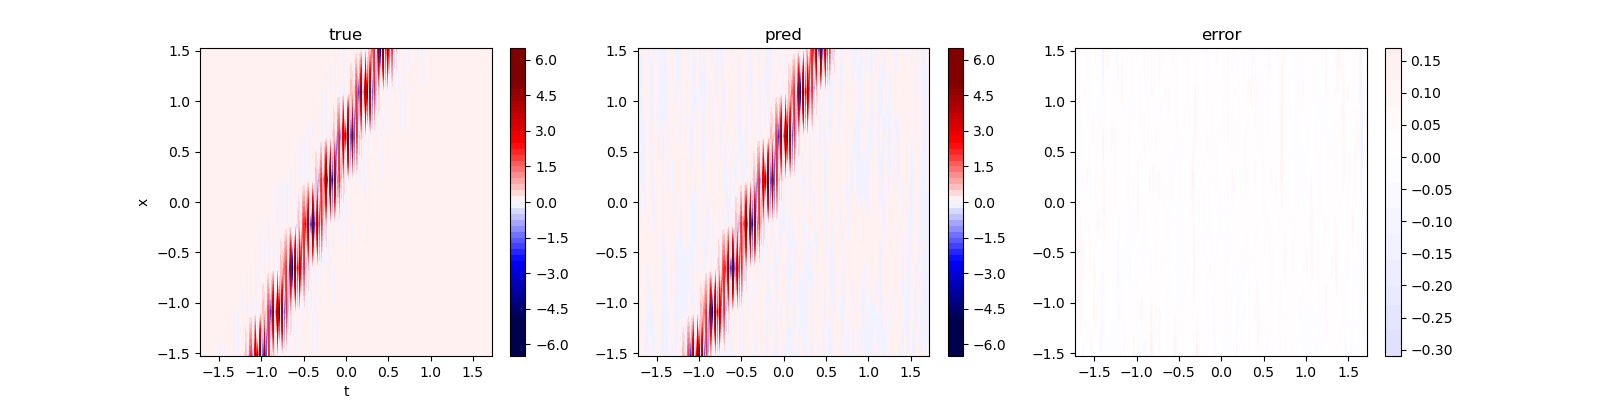
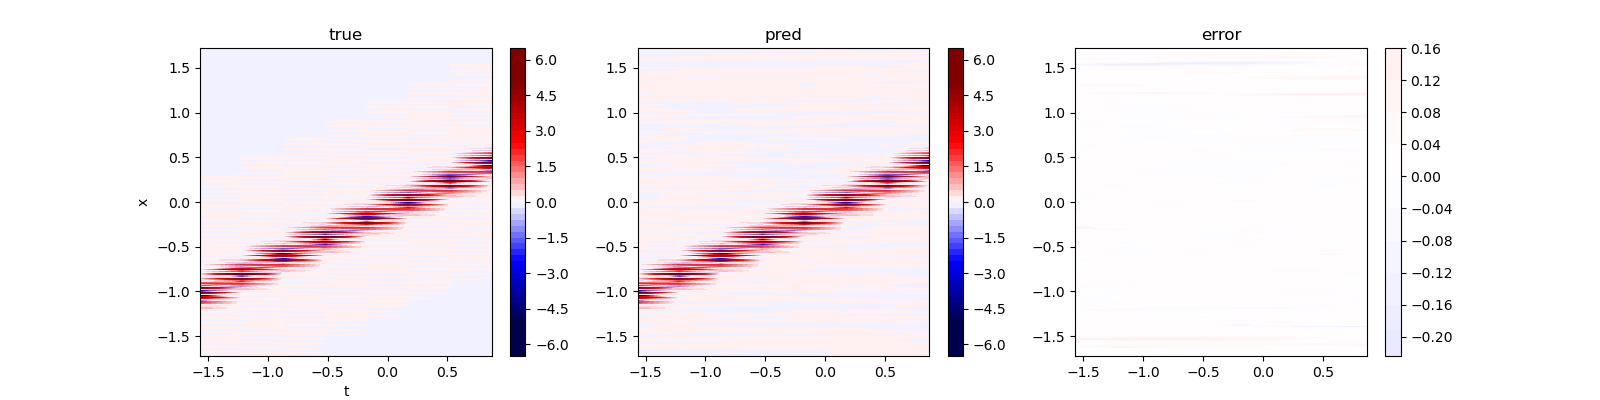
fix/scheduler/datasets norm/..

diff --git a/main.py b/main.py
@@ -21,7 +21,7 @@ from models.simple_nif import simple_NIF
 from utils.utils import count_params
 from utils.visual import visual_1dwave, visual_cylinder
 from utils.yaml import yaml2dict, dict2yaml
-from utils.scheduler import nif_scheduler5000, nif_scheduler600
+from utils.scheduler import nifll_scheduler600, nifms_scheduler5000, nifs_scheduler5000
 
 def main(path):
 
@@ -41,12 +41,12 @@ def main(path):
     # dtrain = Wave_1d(path, 0, 1600, normalize=cfg['data_cfg']['normalize'])
     # dtest = Wave_1d(path, 1600, 2000, normalize=cfg['data_cfg']['normalize'])
     # visual_func = visual_1dwave
-    # dtrain = Wave_1dhf(path, 0, 1600, normalize=cfg['data_cfg']['normalize'])
-    # dtest = Wave_1dhf(path, 1600, 2000, normalize=cfg['data_cfg']['normalize'])
-    # visual_func = visual_1dwave
-    dtrain = Cylinder(path, 0, 163666, normalize=cfg['data_cfg']['normalize'])
-    dtest = Cylinder(path, 163666, 191775, normalize=cfg['data_cfg']['normalize'])
-    visual_func = visual_cylinder
+    dtrain = Wave_1dhf(path, 0, 1600, normalize=cfg['data_cfg']['normalize'])
+    dtest = Wave_1dhf(path, 1600, 2000, normalize=cfg['data_cfg']['normalize'])
+    visual_func = visual_1dwave
+    # dtrain = Cylinder(path, 0, 163666, normalize=cfg['data_cfg']['normalize'])
+    # dtest = Cylinder(path, 163666, 191775, normalize=cfg['data_cfg']['normalize'])
+    # visual_func = visual_cylinder
     print(dtrain)
     cfg['training_cfg']['visual_func'] = visual_func
 
@@ -69,8 +69,9 @@ def main(path):
     cfg['training_cfg']['nb_params'] = count_params(model)
     print("model :", model)
     
+    dict2yaml(save_path + '/cfg.yaml', cfg)
     model.fit(dataloader_train, n_epochs=cfg['training_cfg']['nepoch'], lr=cfg['training_cfg']['lr_init'],
-              scheduler = nif_scheduler600, validation_data=dataloader_test, verbose=100,
+              scheduler = nifms_scheduler5000, validation_data=dataloader_test, verbose=100,
               save_images_freq=cfg['training_cfg']['print_figure_epoch'], vistrain=dtrain[:], vistest=dtest[:])
 
     cfg['training_time'] = time.time() - tic
@@ -82,7 +83,7 @@ def main(path):
     return True
 
 if __name__ == "__main__":
-    cfg_path = 'config/nif_1dwave.yaml'
+    # cfg_path = 'config/nif_1dwave.yaml'
     cfg_path = 'config/nifmultiscale_1dhfwave.yaml'
-    cfg_path = 'config/niflastlayer_cylinder.yaml'
+    # cfg_path = 'config/niflastlayer_cylinder.yaml'
     print(main(cfg_path))

diff --git a/datasets/wave_hf1d.py b/datasets/wave_hf1d.py
@@ -10,8 +10,8 @@ class Wave_1dhf(Dataset) : #héritage de classe Dataset de Pytorch
         super().__init__()
 
         data = np.load(path + '/traveling_wave_high_freq.npz')['data']
-        datax = data[start:end, [0, 1]] 
-        datay = data[start:end, [2]]
+        datax = data[:, [0, 1]] 
+        datay = data[:, [2]]
 
         self.datax = torch.tensor(datax).float()#.view(size) permet de modifier la shape et d'utiliser le même espace de stockage
         self.datay = torch.tensor(datay) #labels
@@ -20,11 +20,19 @@ class Wave_1dhf(Dataset) : #héritage de classe Dataset de Pytorch
         self.mode = 'train'*train + 'val'*(1-train)
 
         if normalize == 'standard':
-            self.datax, _, _ = std_normalize(self.datax)
-            self.datay, _, _ = std_normalize(self.datay)
+            self.datax, datax_means, datax_stds = std_normalize(self.datax)
+            self.datay, datay_means, datay_stds = std_normalize(self.datay)
+            self.datax = self.datax[start:end, :]
+            self.datay = self.datay[start:end, :]
+            self.means = torch.cat((datax_means, datay_means), dim=0)
+            self.stds = torch.cat((datax_stds, datay_stds), dim=0)
         elif normalize == 'minmax':
-            self.datax, _, _ = minimax_normalize(self.datax)
-            self.datay, _, _ = minimax_normalize(self.datay)
+            self.datax, datax_means, datax_stds  = minimax_normalize(self.datax)
+            self.datay, datay_means, datay_stds  = minimax_normalize(self.datay)
+            self.datax = self.datax[start:end, :]
+            self.datay = self.datay[start:end, :]
+            self.means = torch.cat((datax_means, datay_means), dim=0)
+            self.stds = torch.cat((datax_stds, datay_stds), dim=0)
         else :
             raise NotImplementedError('Normalization not implemented')
 

diff --git a/datasets/wave_1d.py b/datasets/wave_1d.py
@@ -10,8 +10,8 @@ class Wave_1d(Dataset) : #héritage de classe Dataset de Pytorch
         super().__init__()
 
         data = np.load(path + '/traveling_wave.npz')['data']
-        datax = data[start:end, [0, 1]] 
-        datay = data[start:end, [2]]
+        datax = data[:, [0, 1]] 
+        datay = data[:, [2]]
 
         self.datax = torch.tensor(datax).float()#.view(size) permet de modifier la shape et d'utiliser le même espace de stockage
         self.datay = torch.tensor(datay) #labels
@@ -20,11 +20,19 @@ class Wave_1d(Dataset) : #héritage de classe Dataset de Pytorch
         self.mode = 'train'*train + 'val'*(1-train)
 
         if normalize == 'standard':
-            self.datax, _, _ = std_normalize(self.datax)
-            self.datay, _, _ = std_normalize(self.datay)
+            self.datax, datax_means, datax_stds = std_normalize(self.datax)
+            self.datay, datay_means, datay_stds = std_normalize(self.datay)
+            self.datax = self.datax[start:end, :]
+            self.datay = self.datay[start:end, :]
+            self.means = torch.cat((datax_means, datay_means), dim=0)
+            self.stds = torch.cat((datax_stds, datay_stds), dim=0)
         elif normalize == 'minmax':
-            self.datax, _, _  = minimax_normalize(self.datax)
-            self.datay, _, _  = minimax_normalize(self.datay)
+            self.datax, datax_means, datax_stds  = minimax_normalize(self.datax)
+            self.datay, datay_means, datay_stds  = minimax_normalize(self.datay)
+            self.datax = self.datax[start:end, :]
+            self.datay = self.datay[start:end, :]
+            self.means = torch.cat((datax_means, datay_means), dim=0)
+            self.stds = torch.cat((datax_stds, datay_stds), dim=0)
         else :
             raise NotImplementedError('Normalization not implemented')
 

diff --git a/utils/visual.py b/utils/visual.py
@@ -4,16 +4,20 @@ import torch
 
 def visual_1dwave(model, datax, datay, path, mode):
     nsamples = datax.shape[0]
-    xx = datax[:, 0].reshape(int(nsamples/200), 200).to('cpu')
-    tt = datax[:, 1].reshape(int(nsamples/200), 200).to('cpu')
+    tt = datax[:, 0].reshape(int(nsamples/200), 200).to('cpu')
+    xx = datax[:, 1].reshape(int(nsamples/200), 200).to('cpu')
+    
     # xx, tt = np.meshgrid(x, t)
     # print("xx.shape :", xx.shape)
     # print("datax.shape :", datax.shape)
     # print("model(datax).shape :", model(datax).shape)
+    means = np.array([1.0821e-01, 1.4988e-02, 5.6368e-05])
+    stds = np.array([0.0029, 0.0139, 0.0093])
 
     u_pred = model(
-    datax).reshape(int(nsamples/200), 200).detach().to('cpu')
-    datay = datay.reshape(int(nsamples/200), 200)
+        datax).reshape(int(nsamples/200), 200).detach().to('cpu')
+    u_pred = u_pred # * stds[2] + means[2]
+    datay = datay.reshape(int(nsamples/200), 200).to('cpu').detach().numpy()
     fig, axs = plt.subplots(1, 3, figsize=(16, 4))
     im1 = axs[0].contourf(tt, xx, datay.reshape(
         int(nsamples/200), 200), vmin=-5, vmax=5, levels=50, cmap='seismic')

diff --git a/utils/scheduler.py b/utils/scheduler.py
@@ -1,4 +1,4 @@
-def nif_scheduler5000(epoch, lr):
+def nifs_scheduler5000(epoch, lr):
     if epoch < 1000:
         return lr
     elif epoch < 2000:
@@ -8,7 +8,17 @@ def nif_scheduler5000(epoch, lr):
     else:
         return 1e-4
 
-def nif_scheduler600(epoch, lr):
+def nifms_scheduler5000(epoch, lr):
+        if epoch < 1000:
+            return lr
+        elif epoch < 2000:
+            return 1e-4
+        elif epoch < 4000:
+            return 5e-5
+        else:
+            return 1e-5
+
+def nifll_scheduler600(epoch, lr):
         if epoch < 200:
             return lr
         elif epoch < 400:

diff --git a/utils/preprocessing.py b/utils/preprocessing.py
@@ -9,7 +9,9 @@ def std_normalize(data):
         
     data -= means
     data /= stds
-
+    # means : tensor([1.0821e-01, 1.4988e-02, 5.6368e-05])
+    # stds : tensor([0.0029, 0.0139, 0.0093])
+ 
     return data, means, stds
 
 def minimax_normalize(data):

diff --git a/README.md b/README.md
@@ -10,8 +10,8 @@ Using the cfg file 'nif_1dwave.yaml' in the config folder, we have the following
 
 |Loss|Visual results|
 |:--:|:------------:|
-|![Training loss with last layer nif on the cylinder dataset](https://github.com/2ailesB/NIF_torch/blob/main/img/)|![Training results with last layer nif on the cylinder dataset](https://github.com/2ailesB/NIF_torch/blob/main/img/nifs_vis_train.png)|
-|![Testing loss with last layer nif on the cylinder dataset](https://github.com/2ailesB/NIF_torch/blob/main/img/)|![Testing results with last layer nif on the cylinder dataset](https://github.com/2ailesB/NIF_torch/blob/main/img/)|
+|![Training loss with last layer nif on the cylinder dataset](https://github.com/2ailesB/NIF_torch/blob/main/img/nifs_train_loss.png)|![Training results with last layer nif on the cylinder dataset](https://github.com/2ailesB/NIF_torch/blob/main/img/nifs_vis_train.png)|
+|![Testing loss with last layer nif on the cylinder dataset](https://github.com/2ailesB/NIF_torch/blob/main/img/nifs_val_loss.png)|![Testing results with last layer nif on the cylinder dataset](https://github.com/2ailesB/NIF_torch/blob/main/img/nifs_vis_test.png)|
 
 
 ### multiscale NIF
@@ -19,8 +19,8 @@ Using the cfg file 'nifmultiscale.yaml' in the config folder, we have the follow
 
 |Loss|Visual results|
 |:--:|:------------:|
-|![Training loss with last layer nif on the cylinder dataset](https://github.com/2ailesB/NIF_torch/blob/main/img/)|![Training results with last layer nif on the cylinder dataset](https://github.com/2ailesB/NIF_torch/blob/main/img/nifms_vis_train.png)|
-|![Testing loss with last layer nif on the cylinder dataset](https://github.com/2ailesB/NIF_torch/blob/main/img/)|![Testing results with last layer nif on the cylinder dataset](https://github.com/2ailesB/NIF_torch/blob/main/img/)|
+|![Training loss with last layer nif on the cylinder dataset](https://github.com/2ailesB/NIF_torch/blob/main/img/nifms_train_loss.png)|![Training results with last layer nif on the cylinder dataset](https://github.com/2ailesB/NIF_torch/blob/main/img/nifms_vis_train.png)|
+|![Testing loss with last layer nif on the cylinder dataset](https://github.com/2ailesB/NIF_torch/blob/main/img/nims_val_loss.png)|![Testing results with last layer nif on the cylinder dataset](https://github.com/2ailesB/NIF_torch/blob/main/img/nifms_vis_test.png)|
 
 
 ### last layer NIF
